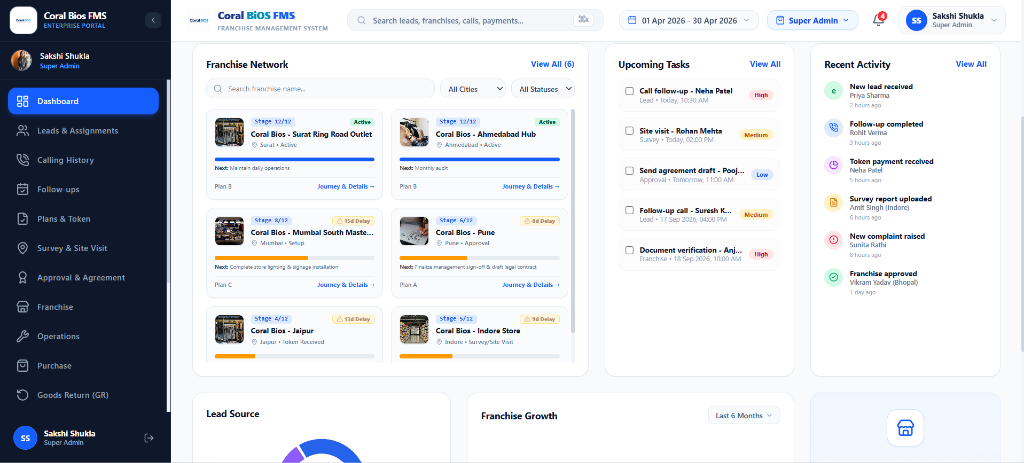
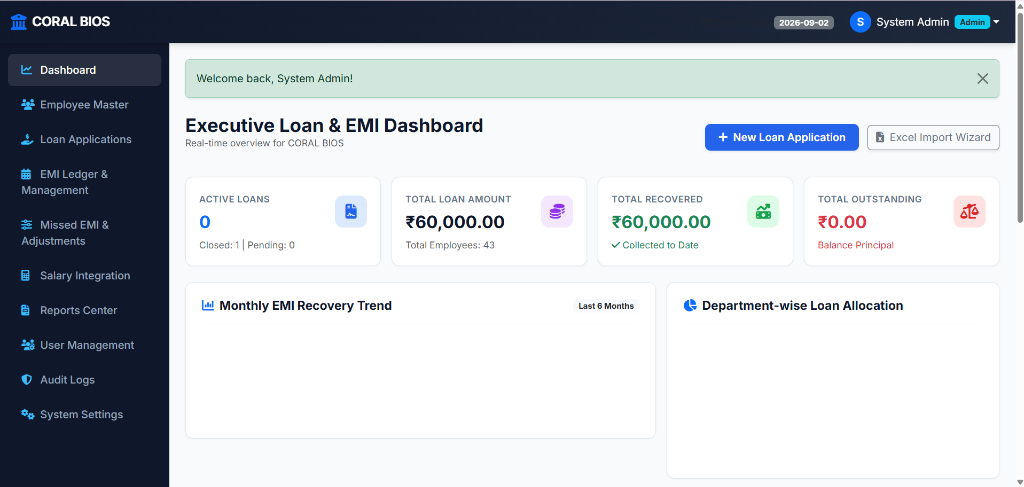
Update Godown and Loan project visuals

diff --git a/src/components/sections/Work.tsx b/src/components/sections/Work.tsx
@@ -116,24 +116,35 @@ export function Work() {
                         </div>
                       </div>
 
-                      {/* Right Column: Existing Visual */}
+                      {/* Right Column: Existing Visual or Text Focus Card */}
                       <div className="h-full w-full bg-[var(--paper)] rounded-2xl p-4 border border-[var(--line)] flex flex-col justify-between relative overflow-hidden group">
                         <div className="flex items-center justify-between border-b border-[var(--line)] pb-2.5 font-mono text-[10px] text-[var(--mute)]">
-                          <span>SYSTEM INTERFACE VIEW</span>
+                          <span>{project.image ? 'SYSTEM INTERFACE VIEW' : 'SYSTEM OVERVIEW'}</span>
                           <span className="px-2 py-0.5 rounded bg-white text-[var(--ink)] font-semibold border border-[var(--line)]">
-                            Live Interface
+                            {project.image ? 'Live Interface' : 'Text Summary'}
                           </span>
                         </div>
 
-                        {/* Image Visual */}
-                        <div className="relative w-full flex-1 min-h-[220px] rounded-xl overflow-hidden bg-white border border-[var(--line)] flex items-center justify-center p-1.5 shadow-inner">
-                          {/* eslint-disable-next-line @next/next/no-img-element */}
-                          <img
-                            src={project.image}
-                            alt={project.title}
-                            className="w-full h-full object-contain rounded-lg"
-                          />
-                        </div>
+                        {/* Image Visual or Focus Card */}
+                        {project.image ? (
+                          <div className="relative w-full flex-1 min-h-[220px] rounded-xl overflow-hidden bg-white border border-[var(--line)] flex items-center justify-center p-1.5 shadow-inner">
+                            {/* eslint-disable-next-line @next/next/no-img-element */}
+                            <img
+                              src={project.image}
+                              alt={project.title}
+                              className="w-full h-full object-contain rounded-lg"
+                            />
+                          </div>
+                        ) : (
+                          <div className="relative w-full flex-1 min-h-[220px] rounded-xl overflow-hidden bg-white border border-[var(--line)] flex flex-col justify-center p-6 shadow-inner space-y-3">
+                            <span className="text-[10px] font-mono text-[var(--mute)] uppercase block tracking-wider">
+                              Primary Analytical Focus
+                            </span>
+                            <p className="text-sm font-semibold text-[var(--ink)] leading-relaxed">
+                              {project.focus}
+                            </p>
+                          </div>
+                        )}
 
                         {/* Impact Badge */}
                         <div className="bg-white p-3 rounded-xl border border-[var(--line)] shadow-sm mt-3">
@@ -180,15 +191,17 @@ export function Work() {
                         ))}
                       </div>
 
-                      {/* Image Visual */}
-                      <div className="w-full rounded-xl overflow-hidden bg-white border border-[var(--line)] p-2">
-                        {/* eslint-disable-next-line @next/next/no-img-element */}
-                        <img
-                          src={project.image}
-                          alt={project.title}
-                          className="w-full h-auto object-contain rounded-lg"
-                        />
-                      </div>
+                      {/* Image Visual if present */}
+                      {project.image ? (
+                        <div className="w-full rounded-xl overflow-hidden bg-white border border-[var(--line)] p-2">
+                          {/* eslint-disable-next-line @next/next/no-img-element */}
+                          <img
+                            src={project.image}
+                            alt={project.title}
+                            className="w-full h-auto object-contain rounded-lg"
+                          />
+                        </div>
+                      ) : null}
 
                       <div className="p-3 bg-[var(--paper)] rounded-xl text-xs">
                         <strong>Impact:</strong> {project.impact}

diff --git a/src/lib/data.ts b/src/lib/data.ts
@@ -467,7 +467,7 @@ export const PRIMARY_PROJECTS: PrimaryProject[] = [
     ],
     tech: ['Excel', 'Google Sheets', 'SQL', 'Data Analytics'],
     impact: 'Centralized analytical visibility across multiple business departments and streamlined decision-making.',
-    image: '/projects/project-2.png'
+    image: ''
   }
 ];
 

diff --git a/scripts/verify_live_site.py b/scripts/verify_live_site.py
@@ -1,0 +1,81 @@
+import asyncio
+from playwright.async_api import async_playwright
+
+async def verify_live():
+    live_url = "https://sakshi-shukla-portfolio.vercel.app"
+    console_errors = []
+
+    async with async_playwright() as p:
+        browser = await p.chromium.launch(headless=True)
+        page = await browser.new_page(viewport={"width": 1440, "height": 900})
+
+        page.on("console", lambda msg: console_errors.append(msg.text) if msg.type == "error" else None)
+
+        print(f"Navigating to live Vercel website: {live_url}")
+        res = await page.goto(live_url, wait_until="networkidle")
+        print("HTTP Response status:", res.status)
+        assert res.status == 200, f"Expected 200, got {res.status}"
+
+        # 1. Check title & hero video
+        title = await page.title()
+        print("Page Title:", title)
+
+        hero_video = page.locator("#hero video")
+        assert await hero_video.count() > 0, "Hero video element missing!"
+        print("Hero video present!")
+
+        # 2. Check Resume PDF download link
+        resume_btn = page.locator('a[href*=".pdf"]')
+        assert await resume_btn.count() > 0, "Résumé PDF link missing!"
+        pdf_href = await resume_btn.first.get_attribute("href")
+        print("Résumé PDF Href:", pdf_href)
+
+        # 3. Check Skills Periodic Table
+        skills = page.locator("#skills")
+        await skills.scroll_into_view_if_needed()
+        await page.wait_for_timeout(500)
+        skill_tiles = page.locator("#skills button.card-surface")
+        tiles_count = await skill_tiles.count()
+        print(f"Skills tiles count: {tiles_count}")
+        assert tiles_count >= 24, f"Expected >= 24 skill tiles, found {tiles_count}"
+
+        # 4. Check Work Section & Project Visuals
+        work = page.locator("#work")
+        await work.scroll_into_view_if_needed()
+        await page.wait_for_timeout(500)
+        project_imgs = page.locator('#work img[src*="/projects/"]')
+        print("Project images count:", await project_imgs.count())
+
+        # 5. Check desktop overflow
+        d_scroll = await page.evaluate("document.documentElement.scrollWidth")
+        d_inner = await page.evaluate("window.innerWidth")
+        print(f"Live Desktop (1440): scrollWidth={d_scroll}, innerWidth={d_inner}")
+        assert d_scroll == d_inner, f"Desktop overflow: {d_scroll} vs {d_inner}"
+        await page.screenshot(path="live_desktop_1440.png", full_page=True)
+
+        # 6. Mobile Test (390x844)
+        m_page = await browser.new_page(viewport={"width": 390, "height": 844})
+        m_page.on("console", lambda msg: console_errors.append(msg.text) if msg.type == "error" else None)
+        await m_page.goto(live_url, wait_until="networkidle")
+        await m_page.wait_for_timeout(500)
+        m_scroll = await m_page.evaluate("document.documentElement.scrollWidth")
+        m_inner = await m_page.evaluate("window.innerWidth")
+        print(f"Live Mobile (390): scrollWidth={m_scroll}, innerWidth={m_inner}")
+        assert m_scroll == m_inner, f"Mobile overflow: {m_scroll} vs {m_inner}"
+        await m_page.screenshot(path="live_mobile_390.png", full_page=True)
+
+        # 7. Small Mobile Test (360x740)
+        s_page = await browser.new_page(viewport={"width": 360, "height": 740})
+        await s_page.goto(live_url, wait_until="networkidle")
+        await s_page.wait_for_timeout(500)
+        s_scroll = await s_page.evaluate("document.documentElement.scrollWidth")
+        s_inner = await s_page.evaluate("window.innerWidth")
+        print(f"Live Small Mobile (360): scrollWidth={s_scroll}, innerWidth={s_inner}")
+        assert s_scroll == s_inner, f"Small Mobile overflow: {s_scroll} vs {s_inner}"
+
+        await browser.close()
+        print("Console errors detected:", console_errors)
+        print("--- LIVE VERCEL WEBSITE VERIFICATION PASSED 100% ---")
+
+if __name__ == '__main__':
+    asyncio.run(verify_live())
